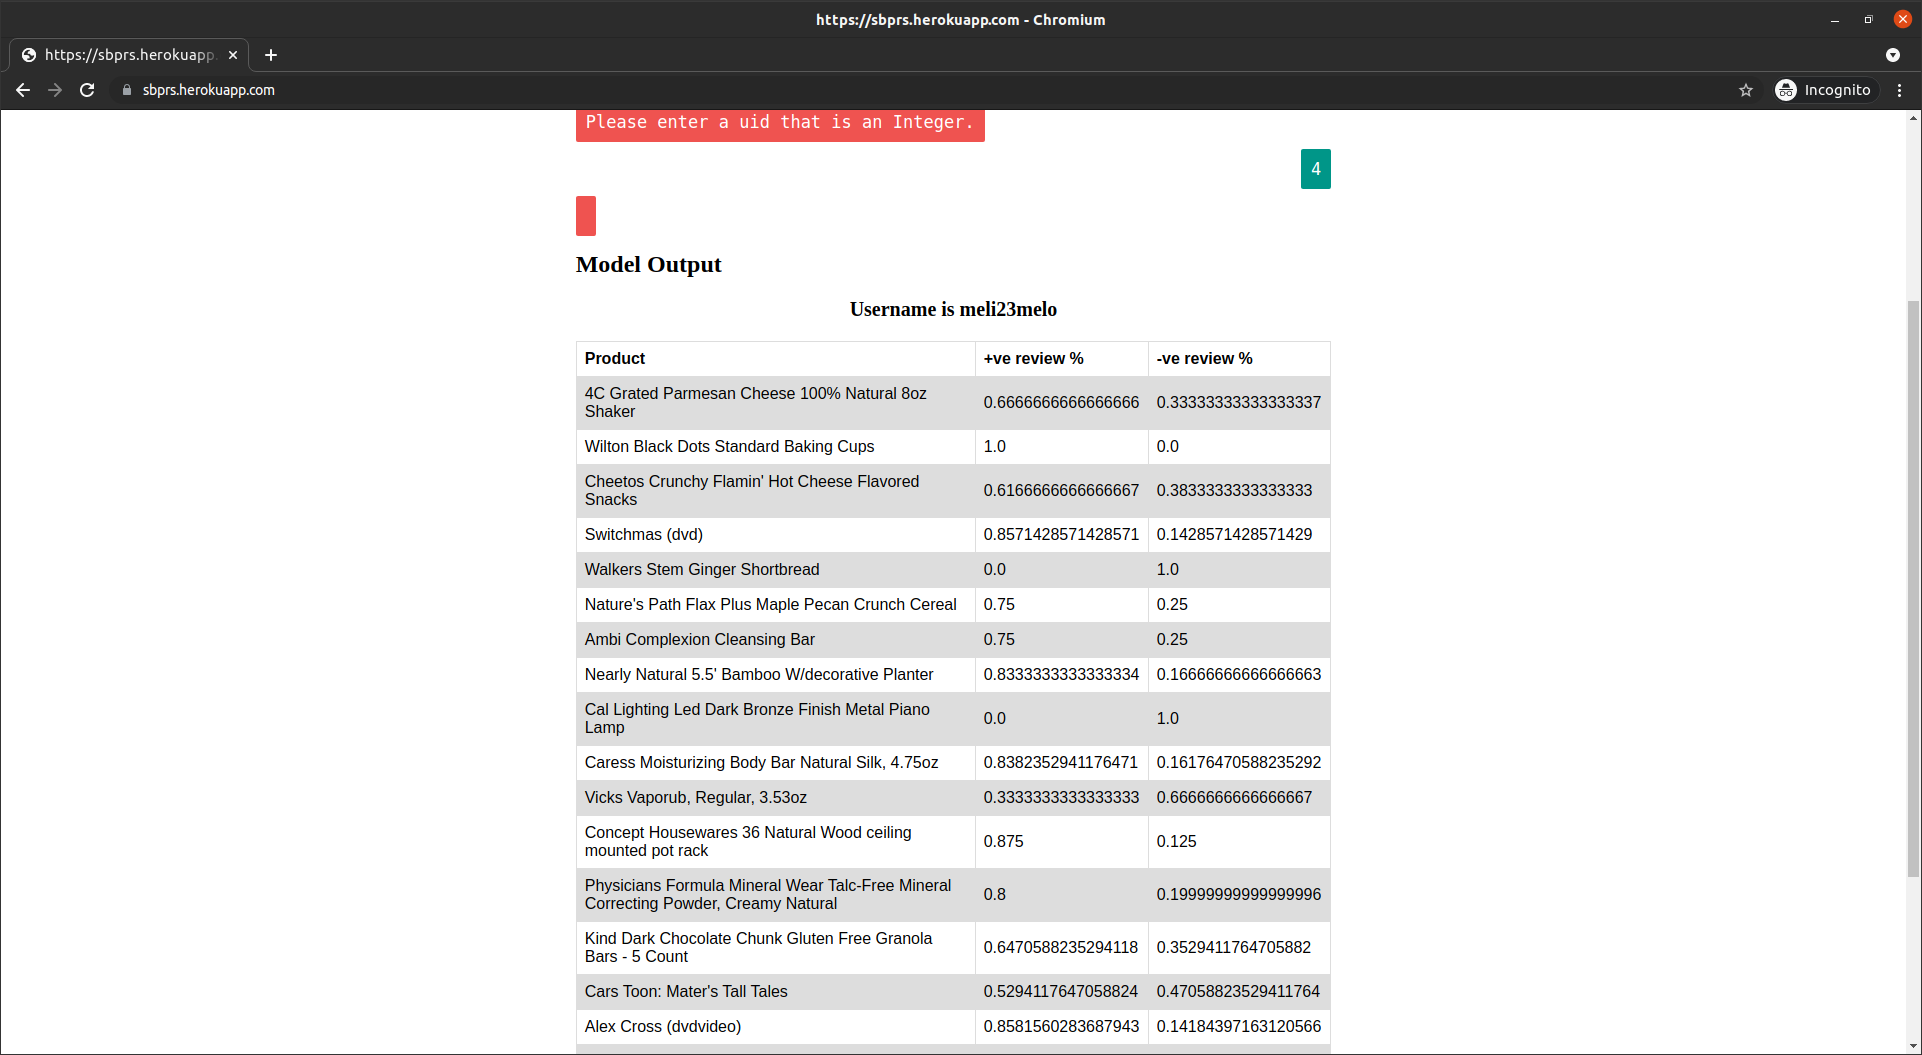
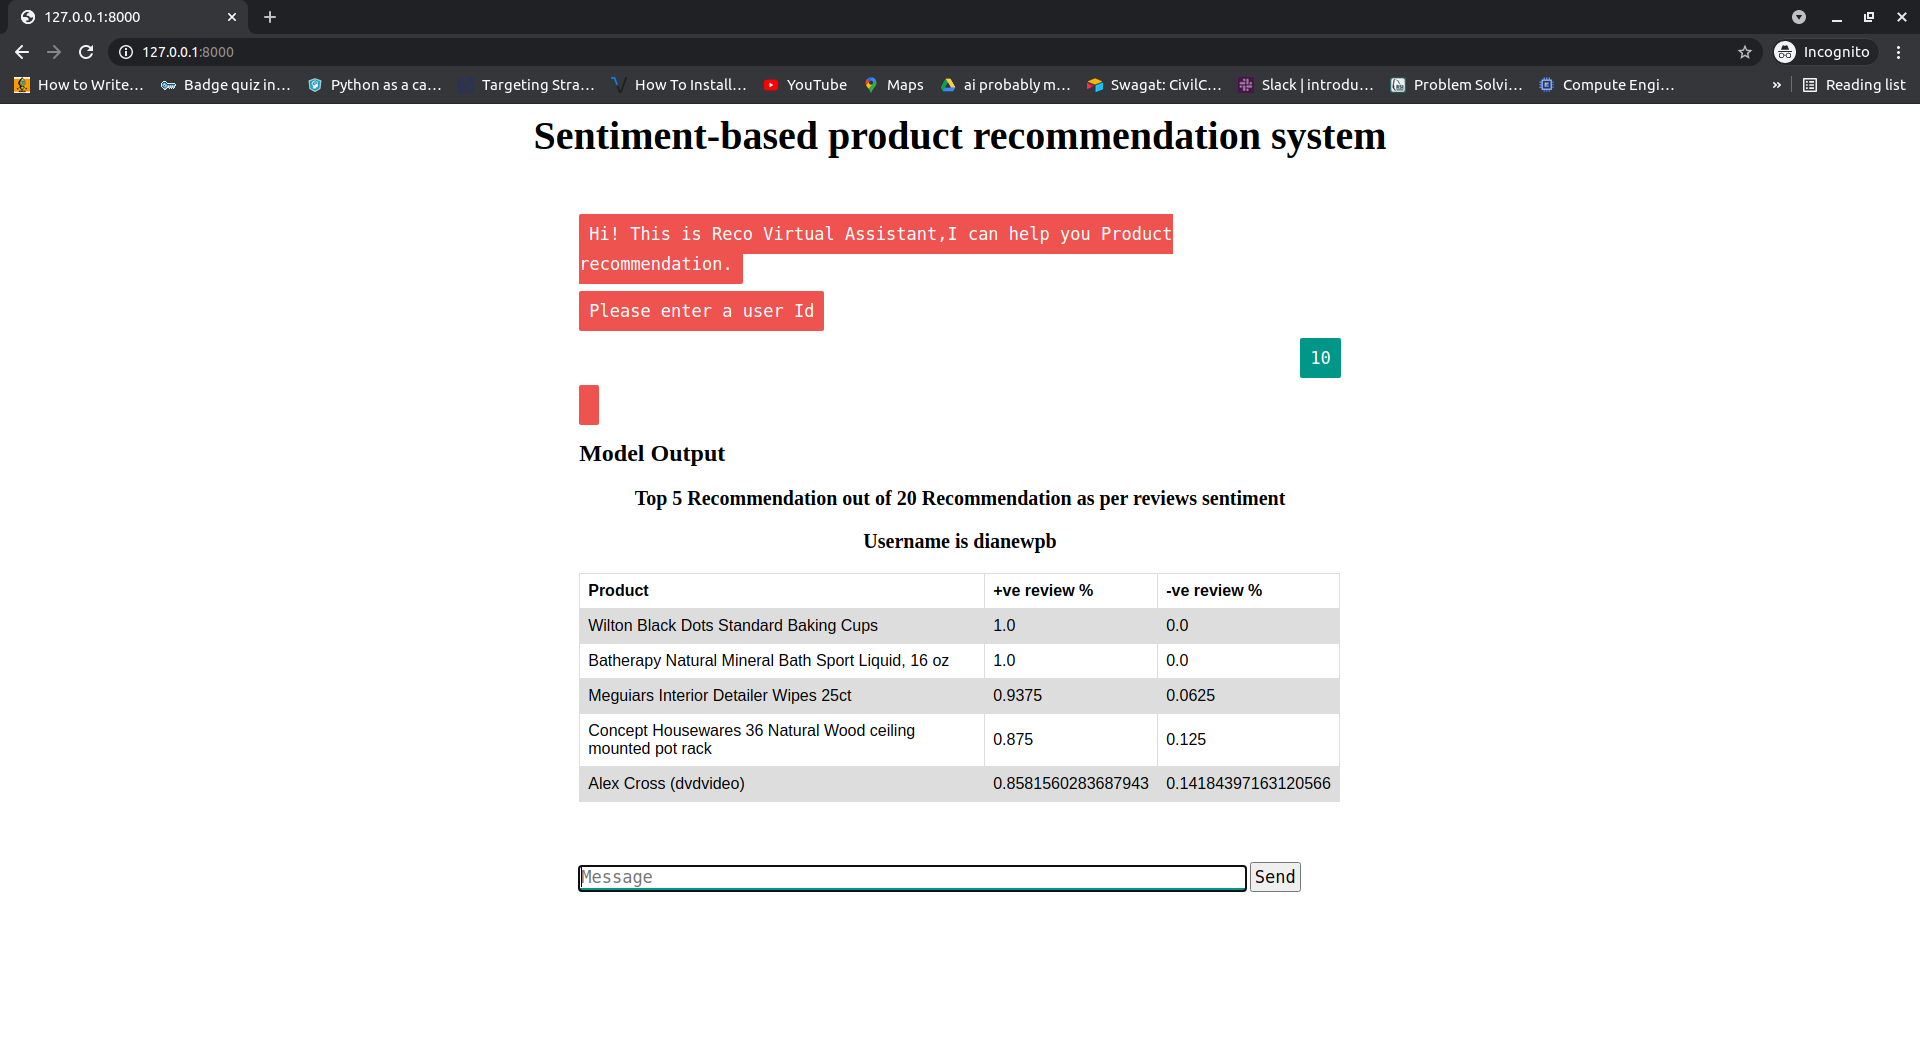
top 5 recommender added

diff --git a/process_output.py b/process_output.py
@@ -1,26 +1,6 @@
-'''
-from sklearn.svm import SVC
-from joblib import dump, load
-import en_core_web_md
-import numpy as np
-
-clf = load('./model/svm_rbf.joblib')
-vector_embedding = en_core_web_md.load()
-sentence = "i love this album. it's very good. more to the hip hop side than her current pop sound.. SO HYPE! i listen to this everyday at the gym! i give it star rating all the way. her metaphors are just crazy. Just Awesome".lower()
-doc = vector_embedding(sentence)
-out = np.asarray(doc.vector).reshape(1, -1)
-
-print(clf.predict(out))
-scores = clf.predict_proba(out)[0]
-print(scores)
-print(0, 1)
-print("fsd", max(scores) - min(scores))
-'''
-
 import os
 import json
 import numpy as np
-from load_model import LoadModel
 import pandas as pd
 import copy
 
@@ -41,6 +21,7 @@ base_format = '''
 <body>
 
 <h2>Model Output</h2>
+<h3> Top 5 Recommendation out of 20 Recommendation  as per reviews sentiment</h3>
 <h3>Username is {Username}</h3>
 <table>
   <tr>
@@ -77,8 +58,8 @@ tr:nth-child(even) {
 
 
 class FormartOutput(object):
-    def __init__(self):
-        self.model = LoadModel()
+    def __init__(self, model):
+        self.model = model
 
     def classifier_output(self, sentence):
         '''
@@ -109,7 +90,7 @@ class FormartOutput(object):
         user_product, user_product_recommended = self.recommendation_system(uid)
 
         table_output = []
-
+        output = []
         for pid, product in zip(user_product, user_product_recommended):
             reviews = list(self.model.df_reco.reviews_text[self.model.df_reco.product_id == pid])
             sentiment_review = []
@@ -118,12 +99,17 @@ class FormartOutput(object):
             # print("product", product)
             pve = sum(sentiment_review) / len(sentiment_review)
             nve = 1 - pve
-            # print(pve, nve)
-            # print(sentiment_review)
-            table_output.append(table_input.format(product=product, pve=pve, nve=nve))
+            output.append({"product": product, "pve": pve, "nve": nve})
+            # table_output.append(table_input.format(product=product, pve=pve, nve=nve))
+        output = sorted(output, key=lambda k: k['pve'], reverse=True)
+        for data in output[:5]:
+            table_output.append(table_input.format(product=data['product'], pve=data['pve'], nve=data['nve']))
+
         return base_format.format(Username=user_name, table=" ".join(table_output), css=css)
 
 
-if __name__ == '__main__':
-    obj = FormartOutput()
-    print(obj.process(4))
+# if __name__ == '__main__':
+#     from load_model import LoadModel
+#
+#     obj = FormartOutput(LoadModel())
+#     print(obj.process(4))

diff --git a/server.py b/server.py
@@ -5,7 +5,7 @@ from process_output import FormartOutput
 
 app = Flask(__name__)
 model = LoadModel()
-obj = FormartOutput()
+obj = FormartOutput(model)
 
 
 @app.route("/")
